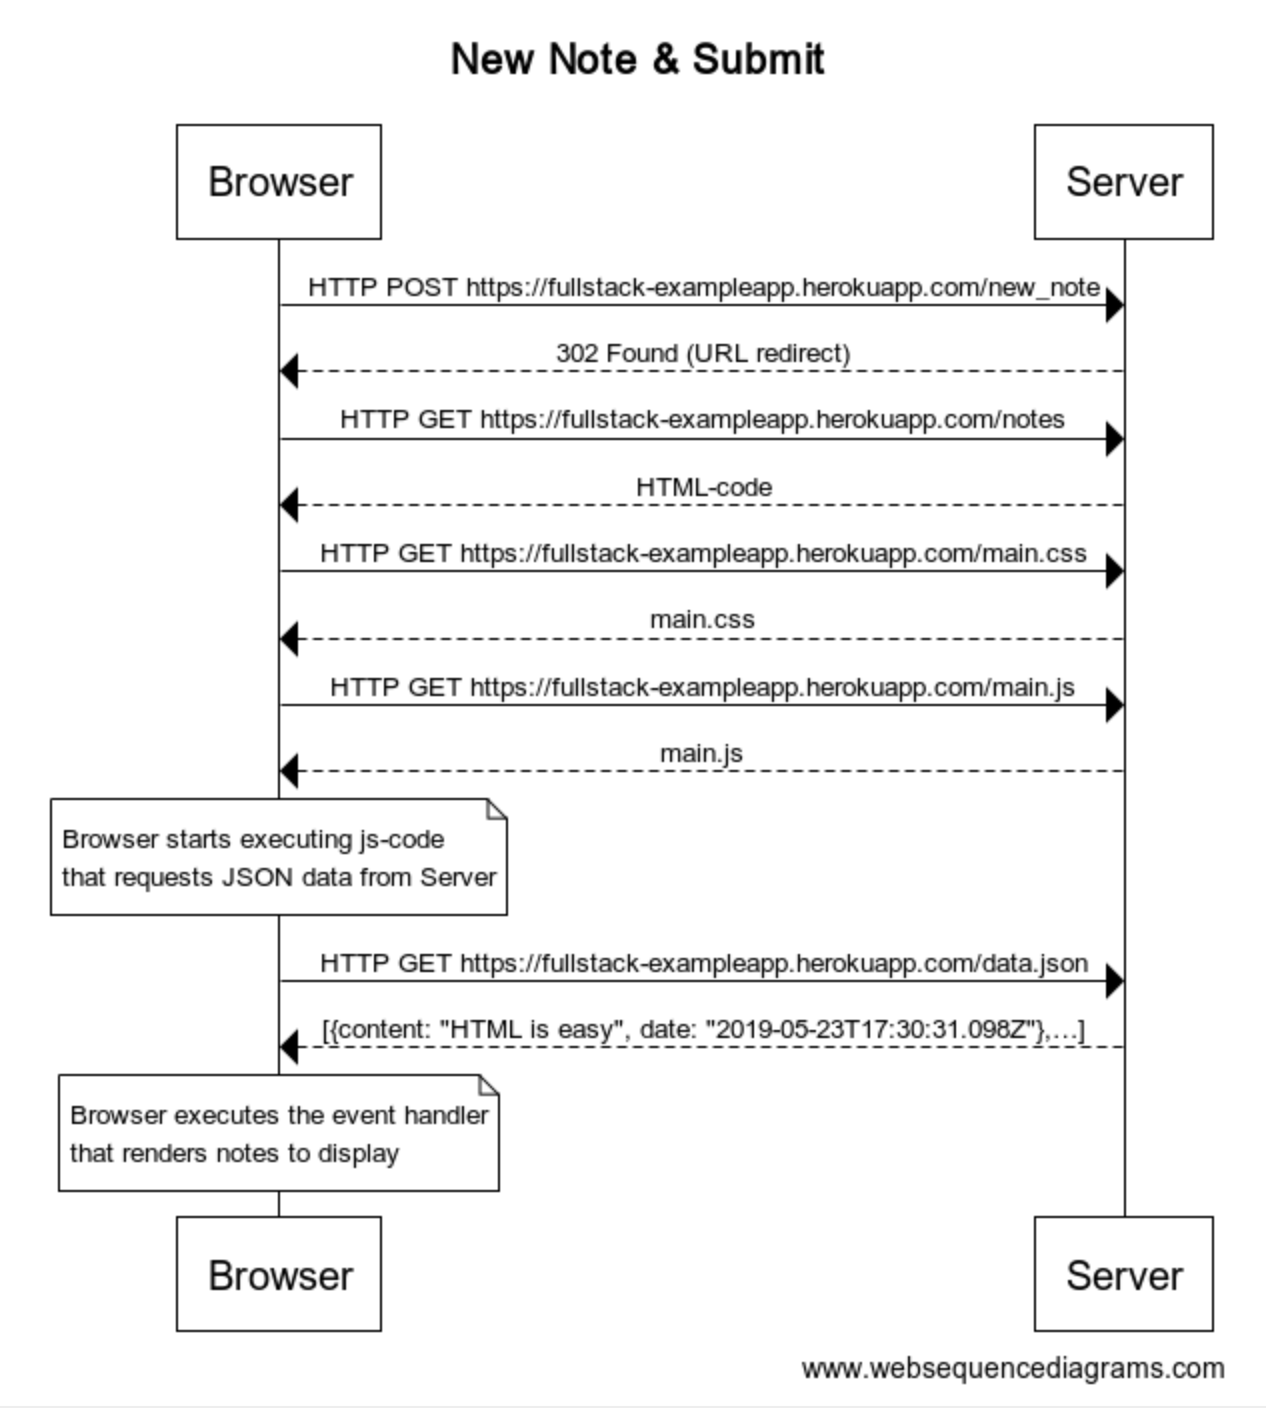
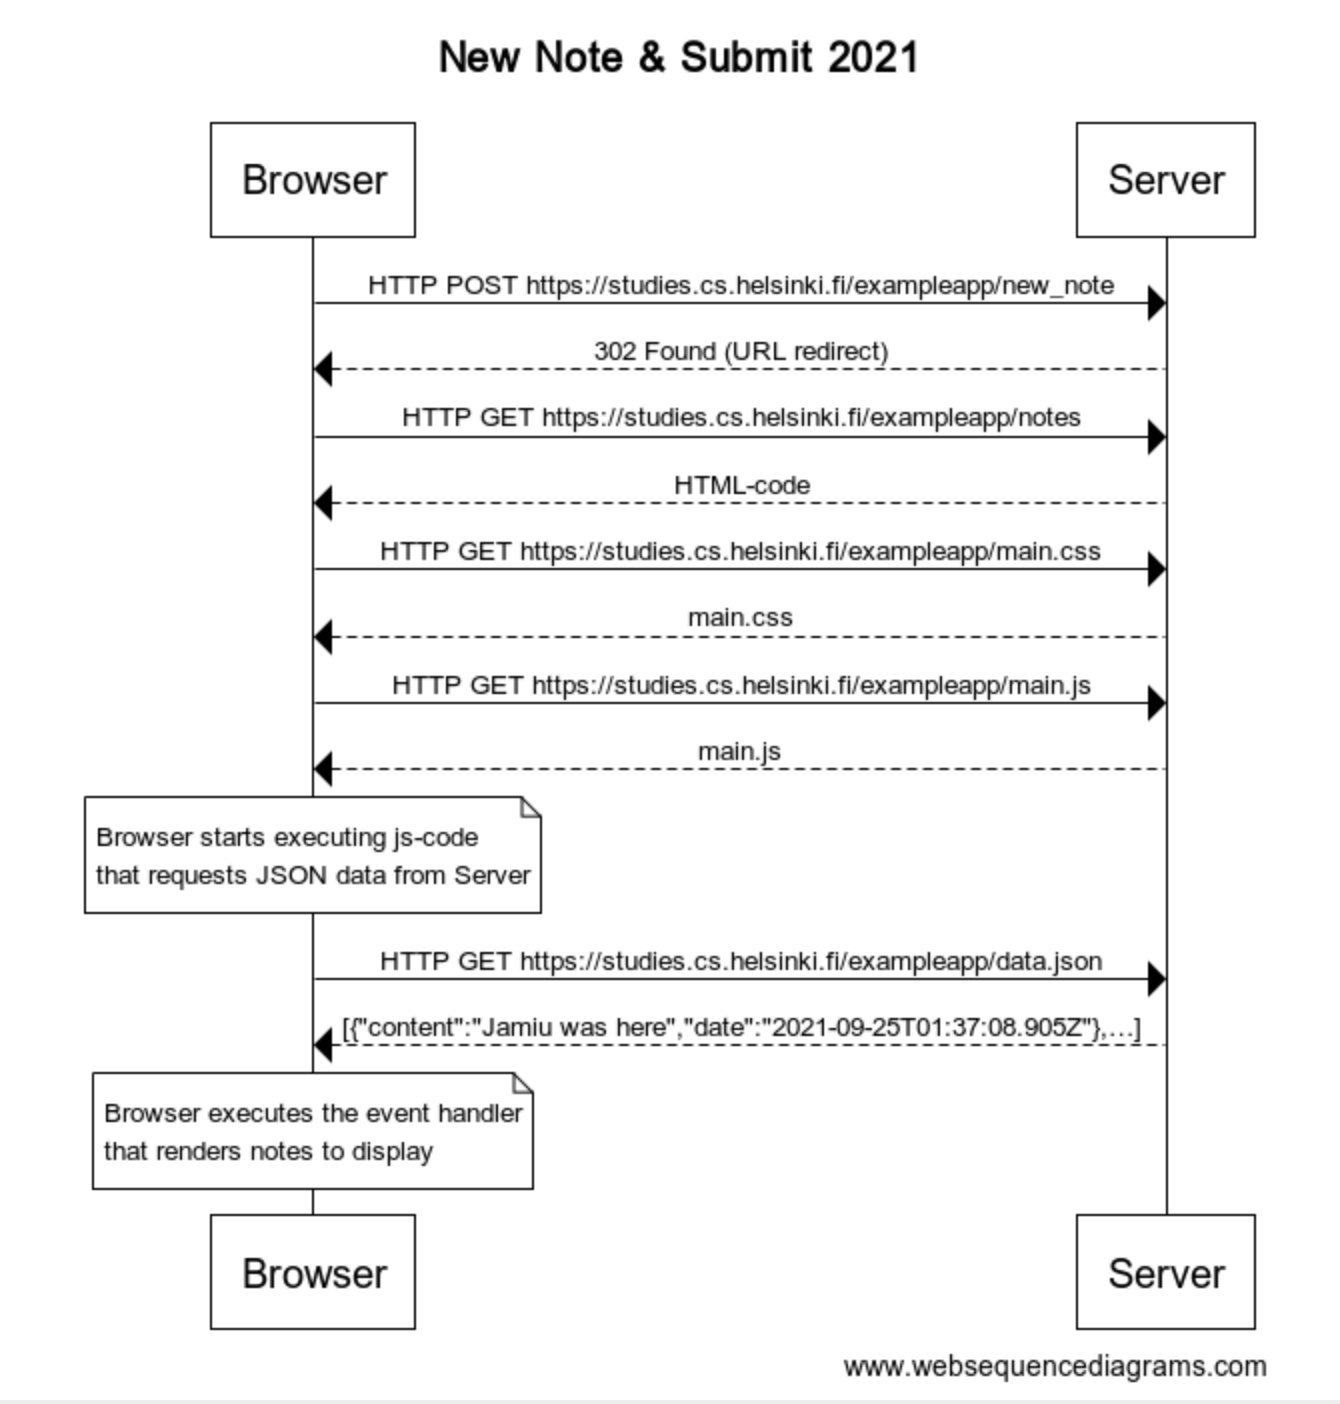
update part0 with 2021 version

Changed region(s): [[0.0308, 0.0613, 0.9858, 1.0], [0.3081, 0.0306, 0.7085, 0.0613], [0.3697, 0.5513, 0.4005, 0.5819]]

diff --git a/README.md b/README.md
@@ -1,4 +1,6 @@
-# fullstack-hy2020
-Full Stack Open Course 2020 at University of Helsinki
+# fullstack-hy2020 / 2021
+**part0, 1, and 2 will be replaced by 2021 versions.**
+
+Full Stack Open Course 2020 /2021 at University of Helsinki
 
 This repo is used for excercises handing-in.
